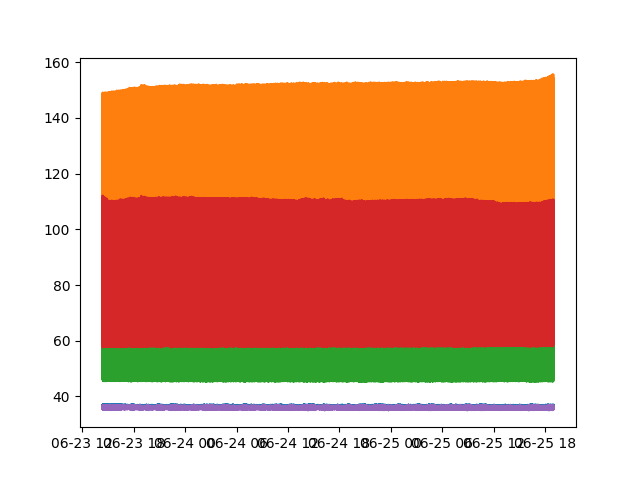
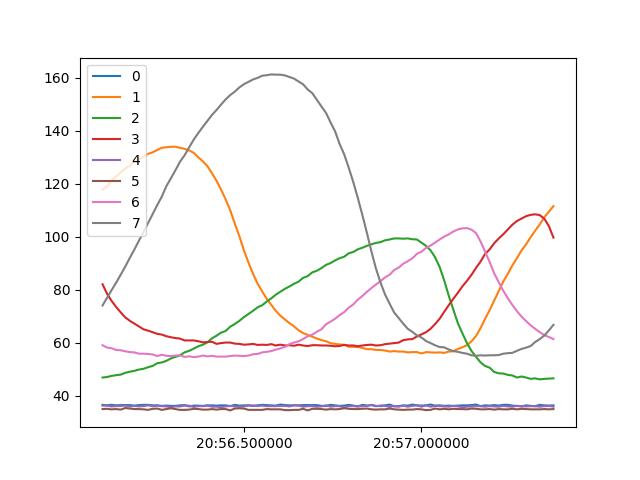
can now plot a window of times

diff --git a/wgrover/largefile_plotter.py b/wgrover/largefile_plotter.py
@@ -7,25 +7,25 @@ with open(sys.argv[1], 'r') as fp:
         pass
 print('Total Lines', count + 1)
 lines = count
+begin = 1000
+end = 1100  # was lines
+points = end - begin
 
 infile = open(sys.argv[1], "r")
-num_channels = 5  # was 8
-times = [0] * lines
-channels = [[0]*lines for _ in range(num_channels)]
+num_channels = 8  # was 8
+times = [0] * points
+channels = [[0]*points for _ in range(num_channels)]
 
 for i, line in enumerate(infile):
-    if i < lines:
-        try:
-            tokens = line.split(",")
-            times[i] = datetime.fromisoformat(tokens[0])
-            for j in range(num_channels):
-                channels[j][i] = float(tokens[j+1])
-        except IndexError:
-            print("i = ", i, "  j = ", j)
+    if begin <= i < end:
+        tokens = line.split(",")
+        times[i-begin] = datetime.fromisoformat(tokens[0])
+        for j in range(num_channels):
+            channels[j][i-begin] = float(tokens[j+1])
 
 for i in range(num_channels):
     print("plotting ", i)
     plt.plot(times, channels[i], label=i)
-# plt.legend()
+plt.legend()
 plt.savefig("out.png")
 
